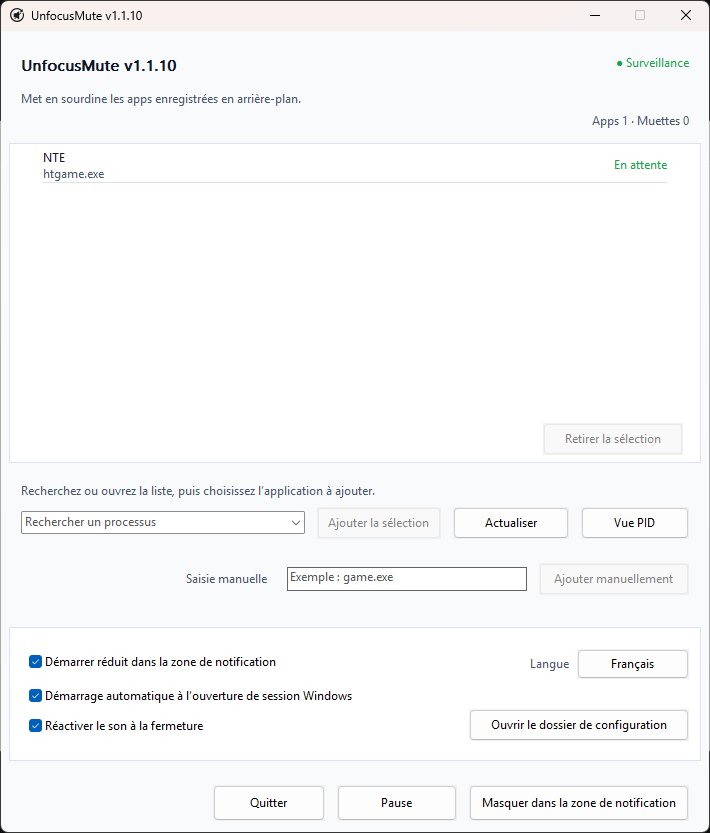
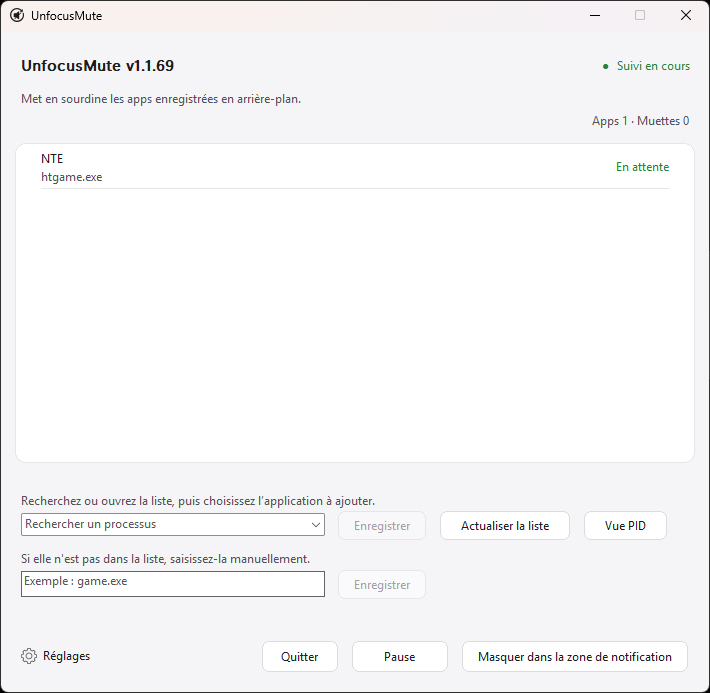
fix(ui): correct register button state

diff --git a/src/windows_app/ui/mod.rs b/src/windows_app/ui/mod.rs
@@ -94,8 +94,9 @@ use runtime_logic::{
     cached_foreground_process_name, desired_audio_fallback_timer_interval_ms,
     foreground_process_cache_needs_refresh, initial_managed_mute_fast_retry_count,
     initial_process_refresh_attempt, process_refresh_is_stale, replace_text_if_changed,
-    should_hide_to_tray, should_release_idle_audio_while_paused,
-    should_reset_audio_controller_after_update, should_retry_tray_icon_before_hide,
+    running_process_selection_has_input, should_hide_to_tray,
+    should_release_idle_audio_while_paused, should_reset_audio_controller_after_update,
+    should_retry_tray_icon_before_hide,
 };
 use settings_window::{SettingsPreferences, prompt_settings};
 use startup_sync::{
@@ -118,11 +119,10 @@ use target_note_prompt::prompt_target_note;
 use theme::{AppTheme, OwnedBrush, UiFont, px};
 use win32::{
     WindowClassRegistration, add_combo_item_with_buffer, add_list_item_with_buffer,
-    copy_wide_fixed, create_button, create_control, create_primary_button,
-    default_button_message_result, get_message, hiword, load_app_icon, load_github_icon,
-    load_settings_icon, load_tray_icon, loword, measure_text_width, move_window,
-    reserve_combo_items, reserve_list_items, set_combo_edit_caret, set_text, to_wide,
-    window_text_into, write_wide_buffer,
+    copy_wide_fixed, create_button, create_control, default_button_message_result, get_message,
+    hiword, load_app_icon, load_github_icon, load_settings_icon, load_tray_icon, loword,
+    measure_text_width, move_window, reserve_combo_items, reserve_list_items, set_combo_edit_caret,
+    set_text, to_wide, window_text_into, write_wide_buffer,
 };
 use window_position::{initial_window_position, should_start_hidden, window_position_is_visible};
 
@@ -983,7 +983,7 @@ impl AppWindow {
             )?
         };
         self.controls.add_selected_button = unsafe {
-            create_primary_button(
+            create_button(
                 self.hwnd,
                 instance,
                 "",
@@ -3077,8 +3077,9 @@ impl AppWindow {
     }
 
     fn update_action_buttons(&mut self) {
-        let can_add_selected = self
-            .selected_process_choice()
+        let selected_process_choice_index = self.selected_process_choice_index();
+        let can_add_selected = selected_process_choice_index
+            .and_then(|index| self.all_process_choices.get(index))
             .is_some_and(|choice| self.can_add_process_choice(choice));
         let can_add_manual = self.can_submit_manual_target();
         let state = ActionButtonState {
@@ -3096,19 +3097,27 @@ impl AppWindow {
         self.last_action_buttons = Some(state);
     }
 
-    fn selected_process_choice(&self) -> Option<&ProcessChoice> {
-        self.selected_process_choice_index()
-            .and_then(|index| self.all_process_choices.get(index))
-    }
-
-    fn selected_process_choice_index(&self) -> Option<usize> {
+    fn selected_process_choice_index(&mut self) -> Option<usize> {
         let index =
             unsafe { SendMessageW(self.controls.running_combo, CB_GETCURSEL, None, None).0 };
         if index >= 0 {
+            if !self.running_process_selection_has_input() {
+                return None;
+            }
             self.process_choice_indices.get(index as usize).copied()
         } else {
             self.single_filtered_process_choice_index()
         }
+    }
+
+    fn running_process_selection_has_input(&mut self) -> bool {
+        unsafe {
+            window_text_into(self.controls.running_combo, &mut self.display_text_buffer);
+        }
+        let has_input =
+            running_process_selection_has_input(&self.process_query, &self.display_text_buffer);
+        self.display_text_buffer.clear();
+        has_input
     }
 
     fn single_filtered_process_choice_index(&self) -> Option<usize> {

diff --git a/src/windows_app/ui/runtime_logic.rs b/src/windows_app/ui/runtime_logic.rs
@@ -79,6 +79,10 @@ pub(super) fn replace_text_if_changed(current: &mut String, next: &mut String) -
     }
 }
 
+pub(super) fn running_process_selection_has_input(process_query: &str, picker_text: &str) -> bool {
+    !process_query.trim().is_empty() || !picker_text.trim().is_empty()
+}
+
 pub(super) fn should_hide_to_tray(tray_added: bool) -> bool {
     tray_added
 }
@@ -120,6 +124,18 @@ mod tests {
         assert!(replace_text_if_changed(&mut current, &mut next));
         assert_eq!(current, "chat.exe");
         assert!(next.is_empty());
+    }
+
+    #[test]
+    fn empty_process_picker_input_does_not_accept_stale_selection() {
+        assert!(!running_process_selection_has_input("", ""));
+        assert!(!running_process_selection_has_input("   ", "   "));
+    }
+
+    #[test]
+    fn process_picker_selection_requires_search_or_visible_text() {
+        assert!(running_process_selection_has_input("game", ""));
+        assert!(running_process_selection_has_input("", "game.exe"));
     }
 
     #[test]
